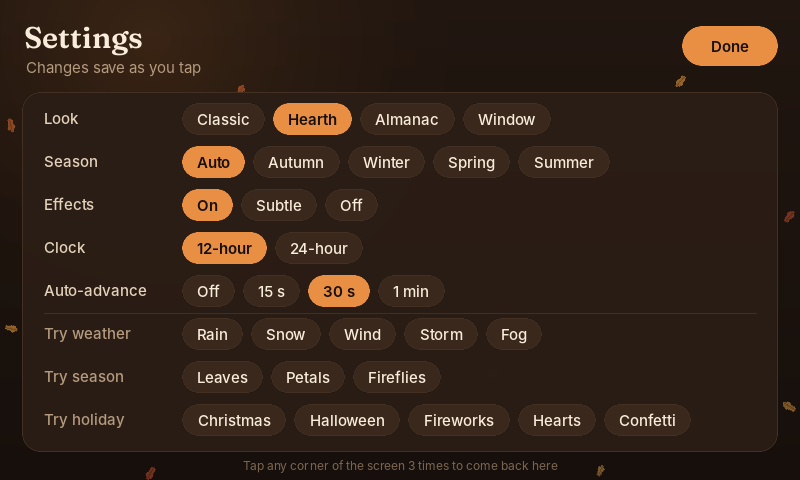
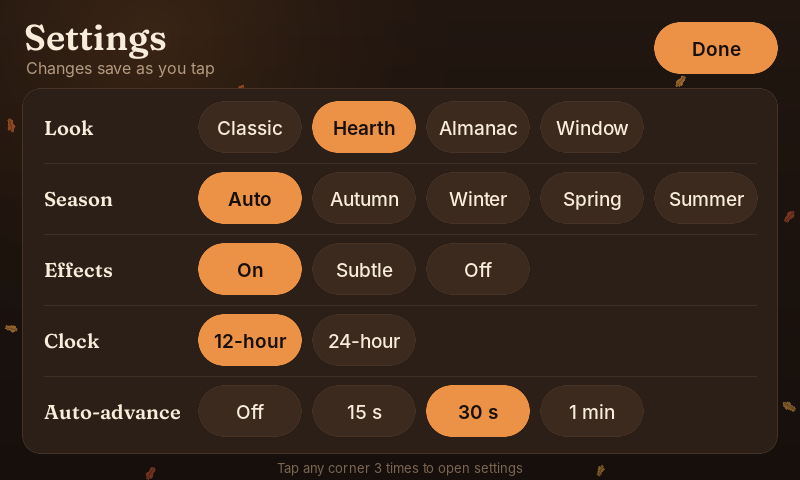
Bigger settings page; make switching looks instant
Settings page:
- Drop the "Try" effect rows; the five settings now use 52 px chips on a
  5-column grid with larger labels.

Switching looks:
- Keep cached backgrounds, cards, text and icons per look instead of
  throwing everything away on every switch, so returning to a look is
  instant.
- Rounded panels now supersample only their corners (was the whole card),
  and gradients are built from a single column: a first-time switch costs
  about a third of what it did.
- Shortly after start-up, while idle, the other looks are prepared off
  screen one at a time, so the first switch from the settings page is
  instant too (~1 ms here vs 20-60 ms before).

Claude-Session: https://claude.ai/code/session_015B7p29uzVA1hw8LQ6Fstbw

diff --git a/layout.py b/layout.py
@@ -32,9 +32,9 @@ def pages(state) -> list[str]:
 
 def draw(screen: pygame.Surface, state) -> None:
     style = getattr(state, "style", "classic")
-    if T.use(style, T.season_for(state.now, getattr(state, "season", "auto"))):
-        _cache.clear()          # colours are baked into cached surfaces
-        icons._cache.clear()
+    T.use(style, T.season_for(state.now, getattr(state, "season", "auto")))
+    if len(_cache) > 4000:      # many looks visited: start over rather than grow forever
+        _cache.clear()
     screen.blit(scenery.background(), (0, 0))
     CARD_RECTS.clear()
     if getattr(state, "settings_open", False):
@@ -59,6 +59,37 @@ def draw(screen: pygame.Surface, state) -> None:
     _page_tabs(screen, names, state.page % len(names), getattr(state, "page_progress", None))
     if getattr(state, "toast", None):
         _toast(screen, state.toast[0])
+
+
+_warmed: set = set()
+
+
+def warm(state) -> bool:
+    """Prepare one other look (its background, cards, text) off screen, so
+    switching to it from the settings page is instant. Returns True if it did
+    some work; call again until it returns False."""
+    season = T.season_for(state.now, getattr(state, "season", "auto"))
+    current = getattr(state, "style", "classic")
+    for style in T.STYLES:
+        if (style, season) in _warmed:
+            continue
+        _warmed.add((style, season))
+        if style == current:
+            continue
+        saved = (list(CARD_RECTS), list(SETTINGS_HITS), pygame.Rect(BANNER_RECT), state.settings_open)
+        scratch = pygame.Surface((T.W, T.H))
+        try:
+            state.style = style
+            for settings in (True, False):
+                state.settings_open = settings
+                draw(scratch, state)
+        finally:
+            state.style, state.settings_open = current, saved[3]
+            CARD_RECTS[:], SETTINGS_HITS[:] = saved[0], saved[1]
+            BANNER_RECT.update(saved[2])
+            T.use(current, season)
+        return True
+    return False
 
 
 def _toast(screen, msg):
@@ -693,19 +724,42 @@ def _badge(label, color, d, diamond=False):
 
 
 def _panel(w, h, radius, fill, border=None):
-    """Anti-aliased rounded rectangle (supersampled, cached)."""
+    """Anti-aliased rounded rectangle (cached).
+
+    Only the four corners are supersampled; the straight parts are plain
+    fills. Supersampling the whole card cost ~10× more, which made switching
+    looks noticeably slow on a Pi.
+    """
     key = ("panel", w, h, radius, fill, border)
     if key not in _cache:
-        k = 3
-        s = pygame.Surface((w * k, h * k), pygame.SRCALPHA)
-        rect = s.get_rect()
+        r = max(0, min(radius, w // 2, h // 2))
+        s = pygame.Surface((w, h), pygame.SRCALPHA)
+        s.fill(border or fill)
         if border:
-            pygame.draw.rect(s, border, rect, border_radius=radius * k)
-            rect = rect.inflate(-2 * k, -2 * k)
-            pygame.draw.rect(s, fill, rect, border_radius=max(0, radius - 1) * k)
+            s.fill(fill, (1, 1, w - 2, h - 2))
+        if r:
+            # punch out the corner squares, then paste in anti-aliased corners
+            corner = _corner(r, fill, border)
+            for flip_x, flip_y, x, y in ((0, 0, 0, 0), (1, 0, w - r, 0), (0, 1, 0, h - r), (1, 1, w - r, h - r)):
+                s.fill((0, 0, 0, 0), (x, y, r, r))
+                s.blit(pygame.transform.flip(corner, flip_x, flip_y), (x, y))
+        _cache[key] = s
+    return _cache[key]
+
+
+def _corner(r, fill, border):
+    """Top-left quarter of a rounded rectangle, supersampled."""
+    key = ("corner", r, fill, border)
+    if key not in _cache:
+        k = 4
+        s = pygame.Surface((r * k, r * k), pygame.SRCALPHA)
+        c = (r * k, r * k)
+        if border:
+            pygame.draw.circle(s, border, c, r * k)
+            pygame.draw.circle(s, fill, c, (r - 1) * k)
         else:
-            pygame.draw.rect(s, fill, rect, border_radius=radius * k)
-        _cache[key] = pygame.transform.smoothscale(s, (w, h))
+            pygame.draw.circle(s, fill, c, r * k)
+        _cache[key] = pygame.transform.smoothscale(s, (r, r))
     return _cache[key]
 
 
@@ -778,7 +832,7 @@ def _glow(d, color):
 # ── text helpers ──────────────────────────────────────────────────────────
 
 def _text(s, face, size, color):
-    key = ("t", s, face, size, color)
+    key = ("t", s, T.FACE_MAP.get(face, face), size, color)
     hit = _cache.get(key)
     if hit is None:
         hit = T.font(face, size).render(s, True, color)
@@ -809,7 +863,7 @@ def _tracked_fit(s, face, size, color, spacing, max_w):
 
 def _tracked(s, face, size, color, spacing):
     """Letter-spaced text (for small caps labels)."""
-    key = ("tr", s, face, size, color, spacing)
+    key = ("tr", s, T.FACE_MAP.get(face, face), size, color, spacing)
     if key not in _cache:
         glyphs = [T.font(face, size).render(ch, True, color) for ch in s]
         w = sum(g.get_width() for g in glyphs) + spacing * (len(glyphs) - 1)
@@ -850,7 +904,7 @@ def _ago(t: datetime, now: datetime) -> str:
 
 # ── settings page ─────────────────────────────────────────────────────────
 
-# (setting, label, [(value, option label), …]); "try_*" rows play an effect
+# (setting, label, [(value, option label), …])
 SETTINGS_ROWS = [
     ("style", "Look", [("classic", "Classic"), ("hearth", "Hearth"), ("almanac", "Almanac"), ("window", "Window")]),
     ("season", "Season", [("auto", "Auto"), ("autumn", "Autumn"), ("winter", "Winter"), ("spring", "Spring"),
@@ -858,11 +912,6 @@ SETTINGS_ROWS = [
     ("effects", "Effects", [("on", "On"), ("subtle", "Subtle"), ("off", "Off")]),
     ("clock", "Clock", [("12h", "12-hour"), ("24h", "24-hour")]),
     ("page_seconds", "Auto-advance", [(0, "Off"), (15, "15 s"), (30, "30 s"), (60, "1 min")]),
-    ("try", "Try weather", [("rain", "Rain"), ("snow", "Snow"), ("wind", "Wind"), ("thunder", "Storm"),
-                            ("fog", "Fog")]),
-    ("try", "Try season", [("leaves", "Leaves"), ("petals", "Petals"), ("fireflies", "Fireflies")]),
-    ("try", "Try holiday", [("christmas", "Christmas"), ("halloween", "Halloween"), ("fireworks", "Fireworks"),
-                            ("hearts", "Hearts"), ("confetti", "Confetti")]),
 ]
 
 
@@ -873,45 +922,49 @@ def setting_value(state, key):
 
 
 def _settings_page(screen, state):
+    """Big, finger-sized choices on a 5-column grid, one setting per row."""
     SETTINGS_HITS.clear()
     focus = getattr(state, "settings_focus", -1)
-
-    x, y = T.PAD + 2, 18
-    screen.blit(_text("Settings", "heading", 30, T.TEXT), (x, y))
-    screen.blit(_text("Changes save as you tap", "regular", 15, T.MUTED), (x + 2, y + 40))
+    size = 19
 
     def chip(r, label, selected, idx, primary=False):
-        fill = T.ACCENT if (selected or primary) else T.CARD_HI
-        ink = T.BG_BOTTOM if (selected or primary) else T.TEXT
+        on = selected or primary
+        fill = T.ACCENT if on else T.CARD_HI
+        ink = T.BG_BOTTOM if on else T.TEXT
         if idx == focus:
-            screen.blit(_panel(r.w + 6, r.h + 6, (r.h + 6) // 2, T.TEXT), (r.x - 3, r.y - 3))
-        screen.blit(_panel(r.w, r.h, r.h // 2, fill, None if (selected or primary) else T.CARD_BORDER), r)
-        t = _text(label, "semibold" if (selected or primary) else "medium", 15, ink)
+            screen.blit(_panel(r.w + 8, r.h + 8, (r.h + 8) // 2, T.TEXT), (r.x - 4, r.y - 4))
+        screen.blit(_panel(r.w, r.h, r.h // 2, fill, None if on else T.CARD_BORDER), r)
+        t = _text(label, "semibold" if on else "medium", size, ink)
         screen.blit(t, t.get_rect(center=r.center))
 
-    done = pygame.Rect(T.W - T.PAD - 96, 26, 96, 40)
+    x = T.PAD + 2
+    screen.blit(_text("Settings", "heading", 36, T.TEXT), (x, 14))
+    screen.blit(_text("Changes save as you tap", "regular", 16, T.MUTED), (x + 2, 58))
+    done = pygame.Rect(T.W - T.PAD - 124, 22, 124, 52)
     SETTINGS_HITS.append((done, "done", None))
     chip(done, "Done", False, 0, primary=True)
 
-    body = pygame.Rect(T.PAD, 92, T.W - 2 * T.PAD, T.H - 92 - T.PAD - 6)
+    body = pygame.Rect(T.PAD, 88, T.W - 2 * T.PAD, T.H - 88 - T.PAD - 4)
     _card(screen, body)
     CARD_RECTS.clear()          # no lights or snow on top of the settings
-    row_h = (body.h - 12) // len(SETTINGS_ROWS)
+    row_h = (body.h - 8) // len(SETTINGS_ROWS)
     lx = body.x + 22
-    ox = body.x + 160
+    ox, right = body.x + 176, body.right - 16
+    cols, gap = 5, 10
+    col_w = (right - ox - gap * (cols - 1)) // cols
+    chip_h = min(52, row_h - 16)
     for i, (key, label, options) in enumerate(SETTINGS_ROWS):
-        cy = body.y + 6 + i * row_h + row_h // 2
-        if i and key == "try" and SETTINGS_ROWS[i - 1][0] != "try":
-            pygame.draw.line(screen, T.DIVIDER, (lx, cy - row_h // 2), (body.right - 22, cy - row_h // 2), 1)
-        screen.blit(_text(label, "medium", 15, T.TEXT_SOFT if key != "try" else T.MUTED), (lx, cy - 10))
+        top = body.y + 4 + i * row_h
+        cy = top + row_h // 2
+        if i:
+            pygame.draw.line(screen, T.DIVIDER, (lx, top), (body.right - 22, top), 1)
+        t = _text(label, "heading", size + 1, T.TEXT)
+        screen.blit(t, (lx, cy - t.get_height() // 2))
         current = setting_value(state, key)
-        cx = ox
-        for value, olabel in options:
-            w = _text(olabel, "semibold", 15, T.TEXT).get_width() + 30
-            r = pygame.Rect(cx, cy - 16, w, 32)
+        for j, (value, olabel) in enumerate(options):
+            r = pygame.Rect(ox + j * (col_w + gap), cy - chip_h // 2, col_w, chip_h)
             SETTINGS_HITS.append((r, key, value))
-            chip(r, olabel, key != "try" and value == current, len(SETTINGS_HITS) - 1)
-            cx += w + 8
+            chip(r, olabel, value == current, len(SETTINGS_HITS) - 1)
 
-    hint = _text("Tap any corner of the screen 3 times to come back here", "regular", 12, T.FAINT)
-    screen.blit(hint, hint.get_rect(midtop=(T.W // 2, T.H - 22)))
+    hint = _text("Tap any corner 3 times to open settings", "regular", 13, T.FAINT)
+    screen.blit(hint, hint.get_rect(midtop=(T.W // 2, T.H - 20)))

diff --git a/scenery.py b/scenery.py
@@ -26,23 +26,18 @@ _cache: dict = {}
 
 def background() -> pygame.Surface:
     key = T.KEY
-    if _cache.get("key") != key:
-        _cache.clear()
-        _cache["key"] = key
-        if T.STYLE == "window":
-            _cache["bg"] = _landscape()
-        else:
-            _cache["bg"] = _plain()
-    return _cache["bg"]
+    if key not in _cache:       # one per look you've used, so switching back is instant
+        _cache[key] = _landscape() if T.STYLE == "window" else _plain()
+    return _cache[key]
 
 
 # ── hearth / almanac ──────────────────────────────────────────────────────
 
 def _gradient(top, bottom, w=T.W, h=T.H):
-    s = pygame.Surface((w, h))
+    col = pygame.Surface((1, h))
     for y in range(h):
-        pygame.draw.line(s, T.mix(top, bottom, y / h), (0, y), (w, y))
-    return s
+        col.set_at((0, y), T.mix(top, bottom, y / h))
+    return pygame.transform.scale(col, (w, h))
 
 
 def _plain():

diff --git a/tests/test_looks.py b/tests/test_looks.py
@@ -47,3 +47,22 @@ def test_every_look_renders():
                               style=style, season=season)
                 layout.draw(surf, state)
     theme.use("classic")
+
+
+def test_warming_prepares_other_looks_without_disturbing_the_screen():
+    now = datetime(2026, 11, 9, 18, 42).astimezone()
+    state = State(now=now, station="Steinway St", location="Astoria", departures=mock.trains(now, "normal"),
+                  weather=mock.weather(now, "normal"), style="hearth")
+    surf = pygame.Surface((theme.W, theme.H))
+    layout.draw(surf, state)
+    cards = list(layout.CARD_RECTS)
+    layout._warmed.clear()
+    rounds = 0
+    while layout.warm(state):
+        rounds += 1
+    assert rounds == len(theme.STYLES) - 1
+    assert state.style == "hearth" and not state.settings_open and theme.STYLE == "hearth"
+    assert layout.CARD_RECTS == cards
+    import scenery
+    assert all(("window" if s == "window" else s, "autumn") in scenery._cache for s in ("almanac", "window"))
+    theme.use("classic")

diff --git a/dashboard.py b/dashboard.py
@@ -363,10 +363,6 @@ def main():
         if setting == "done":
             close_settings()
             return
-        if setting == "try":
-            effects.preview(value, 20)
-            close_settings(f"Playing · {value.capitalize()}")
-            return
         if setting == "clock":
             state.clock24 = value == "24h"
         elif setting == "effects":
@@ -553,6 +549,14 @@ def main():
                     fx_error_until = time.monotonic() + 60
             presenter.present()
         fx_was_on = fx_on
+
+        # while idle, get the other looks ready so switching to them is instant
+        if not changed and time.monotonic() - page_started > 2 and not state.asleep:
+            with state.lock:
+                try:
+                    layout.warm(state)
+                except Exception as e:
+                    print(f"[warm] {type(e).__name__}: {e}", flush=True)
 
         if shot.is_set():
             pygame.image.save(presenter.canvas, "/tmp/dashboard.png")

diff --git a/tests/test_effects.py b/tests/test_effects.py
@@ -84,7 +84,8 @@ def test_settings_page_lists_every_choice():
     surf = pygame.Surface((theme.W, theme.H))
     layout.draw(surf, _state((2026, 11, 9, 18, 42), settings_open=True))
     keys = {(k, v) for _, k, v in layout.SETTINGS_HITS}
-    assert ("done", None) in keys and ("style", "window") in keys and ("try", "christmas") in keys
+    assert ("done", None) in keys and ("style", "window") in keys and ("season", "summer") in keys
+    assert all(r.h >= 44 for r, _, _ in layout.SETTINGS_HITS)       # finger-sized
     rects = [r for r, _, _ in layout.SETTINGS_HITS]
     assert all(surf.get_rect().contains(r) for r in rects)
     assert not any(a.colliderect(b) for i, a in enumerate(rects) for b in rects[i + 1:])

diff --git a/icons.py b/icons.py
@@ -56,8 +56,10 @@ def kind(code: int, is_day: bool = True) -> str:
 
 
 def icon(code: int, is_day: bool, size: int) -> pygame.Surface:
-    key = (kind(code, is_day), size)
+    key = (kind(code, is_day), size, T.KEY)     # colours depend on the look
     if key not in _cache:
+        if len(_cache) > 400:
+            _cache.clear()
         _cache[key] = _render(key[0], size)
     return _cache[key]
 

diff --git a/README.md b/README.md
@@ -88,8 +88,7 @@ and the date:
 `[effects] mode` is `"auto"` (on, except on a Pi Zero), `"on"`, `"subtle"`
 (fewer, calmer, no lightning) or `"off"`. They live in [`effects.py`](effects.py)
 (hot-reloaded). Preview any of them without waiting for the weather:
-`python3 tools/render.py --scenario normal --style hearth --effect christmas`,
-or from the settings page.
+`python3 tools/render.py --scenario normal --style hearth --effect christmas`.
 
 ## Settings page
 
@@ -98,8 +97,9 @@ Button SHIM button three times quickly) to open it:
 
 ![Settings](docs/effects/settings.png)
 
-Change the look, season, effects, clock and auto-advance, or tap **Try …** to
-play any effect for 20 seconds. Choices apply immediately and are saved to
+Change the look, season, effects, clock and auto-advance. Choices apply
+immediately (the other looks are prepared in the background shortly after
+start-up, so switching is instant) and are saved to
 `settings.json`, which takes priority over `config.toml` for those settings
 (delete it to go back). With a keyboard, knob or remote: next/previous move
 the highlight, Enter chooses, Esc closes. With the Button SHIM: A up, B down,
